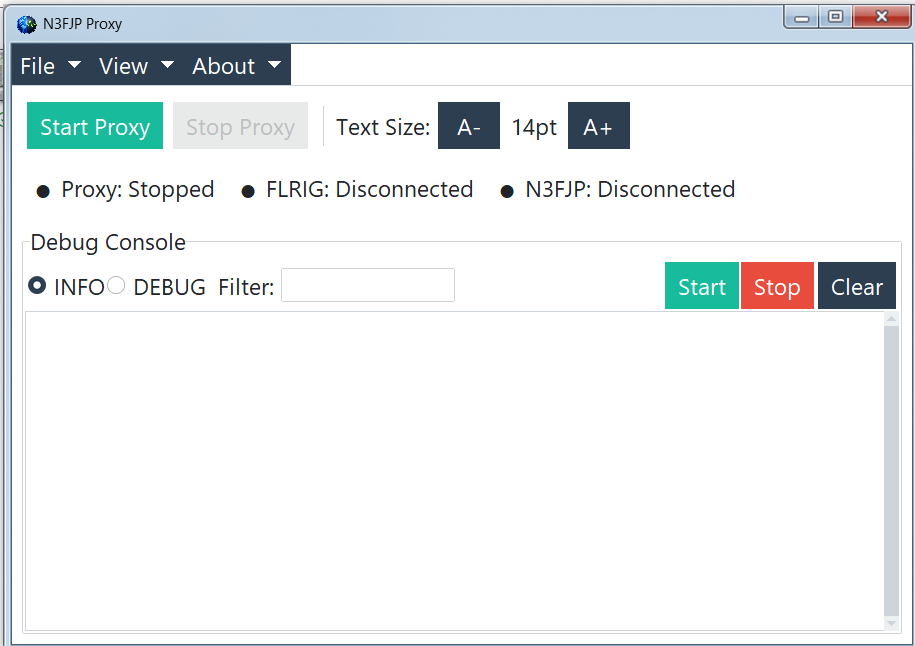
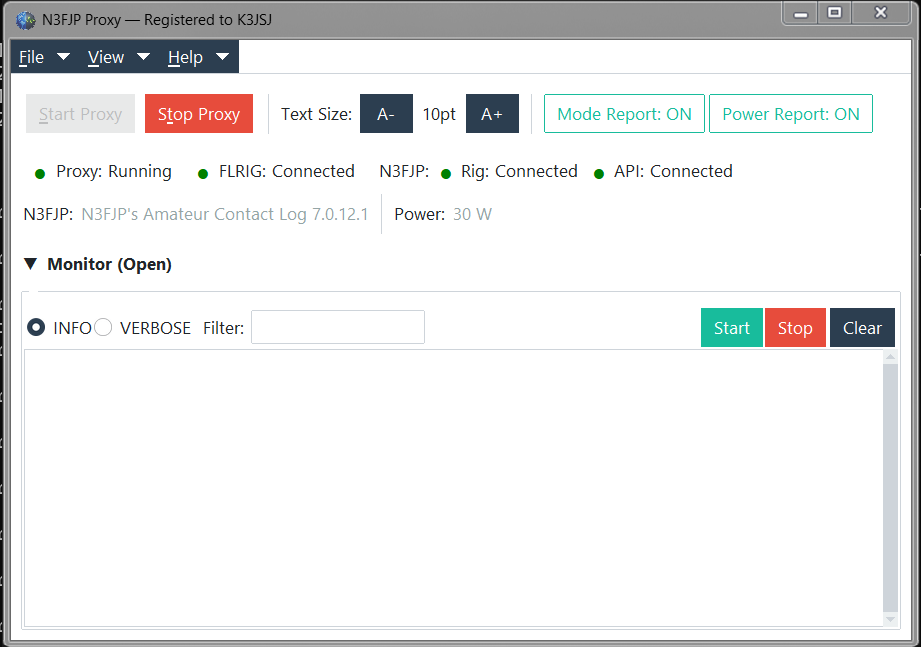
N3FJP Proxy: Updated website for new release. Updated screenshot of main window. Added screenshot of configuration window.

Changed region(s): [[0.0, 0.0, 1.0, 1.0], [0.306, 0.4644, 0.4896, 0.4954]]

diff --git a/_pages/n3fjp-proxy-landing.md b/_pages/n3fjp-proxy-landing.md
@@ -10,45 +10,18 @@ N3FJP Proxy is a free Windows application that bridges **N3FJP Amateur Contact L
 
 ## Download
 
- <a href="https://downloads.k3jsj.net/n3fjp-proxy/n3fjp-proxy-1.0.0-beta.zip">n3fjp-proxy-beta-1.0.0.zip</a> (MD5SUM: <code>9fc43f150cc20e81843f350d92bf97262f006b6beb268e65b9df3c025a078f33</code>
+Release Date: July 14, 2026
 
- <a href="https://downloads.k3jsj.net/n3fjp-proxy/n3fjp-proxy-1.0.0-beta.zip.sig">n3fjp-proxy-beta-1.0.0.zip.sig</a>  (Digital Signature)
+ <a href="https://downloads.k3jsj.net/n3fjp-proxy/n3fjp-proxy-1.0.1-64bit.zip">n3fjp-proxy-1.0.1-64bit.zip</a> (SHA256SUM: <code>3e58dc56d1b7da5f66c170432448094d007fd85e9864cbe33261d860471dfe67</code>)
 
----
-## Video Series
+ <a href="https://downloads.k3jsj.net/n3fjp-proxy/n3fjp-proxy-1.0.1-64bit.zip.sig">n3fjp-proxy-1.0.1-64bit.zip.sig</a>  (Digital Signature)
 
-<div style="position: relative; padding-bottom: 56.25%; height: 0; overflow: hidden; max-width: 100%;">
-  <iframe
-    src="https://www.youtube.com/embed/DwtwsuPWn-w"
-    title="Introducing N3FJP Proxy Part 1"
-    frameborder="0"
-    allow="accelerometer; autoplay; clipboard-write; encrypted-media; gyroscope; picture-in-picture; web-share"
-    allowfullscreen
-    style="position: absolute; top: 0; left: 0; width: 100%; height: 100%;">
-  </iframe>
-</div>
-
-Check out “Introducing N3FJP Proxy Part 1” for an overview of integrating analog and digital operations. With N3FJP Proxy the frequency of your radio will be provided to N3FJP while you are operating digital applications.
-
-<div style="position: relative; padding-bottom: 56.25%; height: 0; overflow: hidden; max-width: 100%;">
-  <iframe
-    src="https://www.youtube.com/embed/BT4eOwWgOos"
-    title="Introducing N3FJP Proxy Part 2"
-    frameborder="0"
-    allow="accelerometer; autoplay; clipboard-write; encrypted-media; gyroscope; picture-in-picture; web-share"
-    allowfullscreen
-    style="position: absolute; top: 0; left: 0; width: 100%; height: 100%;">
-  </iframe>
-</div>
-
-Check out “Introducing N3FJP Proxy Part 2” for a live demo of the software setup and how the N3FJP Proxy provides information from your radio to N3FJP while operating digital applicaitons.
+It is recommended to verify the sha256sum of the ZIP file. The author has also signed the zip file using his PGP key (K3JSJ@ARRLNET).
 
 ---
-## Support request
 
-If you have a question or have a feature or bug report please use the following Google form
-
-<a href="https://docs.google.com/forms/d/e/1FAIpQLSdbSc06EE1WUObzECayfRRte3q-nRSqi2uRIJt0SdEFJI0T0g/viewform?usp=publish-editor" target="_blank">K3JSJ Software Support request form</a>
+## Installation
+Download the ZIP file and unzip into a folder in your Windows profile (e.g., Desktop\, or Downloads\). The application does not require admintrator rights and it should be executed using normal user permissions.
 
 
 ---
@@ -57,7 +30,16 @@ If you have a question or have a feature or bug report please use the following 
 
 ![N3FJP Proxy Main Window]({{ site.baseurl }}/images/2026/n3fjp-proxy/setup_proxy_02.png)
 
+Figure 1 - Main screen of N3FJP Proxy
+
+![N3FJP Proxy Config Window]({{ site.baseurl }}/images/2026/n3fjp-proxy/setup_proxy_01.png)
+
+Figure 2 - Configuration menu (File => Config)
+
+
 ---
+
+## Software Overview
 
 N3FJP Proxy sits between N3FJP Amateur Contact Log and FLRIG, translating the N3FJP API protocol into FLRIG XML-RPC commands. When you change frequency or mode in FLRIG, or other applications using FLRIG, N3FJP updates automatically — and vice versa.
 
@@ -71,6 +53,16 @@ N3FJP Proxy sits between N3FJP Amateur Contact Log and FLRIG, translating the N3
 - Accessible font size controls (A+ / A−) for comfortable reading
 - Saves window position across monitors and sessions
 - Detailed log viewer with filter and export
+
+** Updates 1.0.1 **
+- TX Power now updates live in N3FJP's QSO entry screen (previously never worked - required a new connection into N3FJP's own API)
+- Detect Settings - one-click auto-detect of IP/Port and installed apps, with guided setup
+- App Launcher - auto-start/stop FLRIG, N3FJP, WSJT-X, Fldigi, VarAC, and FreeDV alongside the proxy
+- Frequency Config editor with ARRL band-plan auto-populate
+- Background/manual software update checker (this notice!)
+- Separate status indicators for N3FJP Rig vs. N3FJP API connections
+- Live power/frequency/mode display, N3FJP program name and version shown
+- Accessibility improvements: keyboard navigation, contrast, colorblind-friendly status indicators, adjustable text size
 
 ---
 
@@ -87,21 +79,7 @@ N3FJP Proxy sits between N3FJP Amateur Contact Log and FLRIG, translating the N3
 
 ## Quick Setup
 
-N3FJP Proxy includes a built-in setup guide (View → Setup Instructions). The short version:
-
-1. **FLRIG** — Enable the XML-RPC server at port **12345**
-   *(Config → Setup → Server)*
-
-2. **N3FJP** — Set the rig interface to **N3FJP API** at port **11000**
-   *(Settings → Rig Interface)*
-
-3. **N3FJP Proxy** — Set IP address of FLRIG (127.0.0.1 or remote IP), Set FLRIG port to **12345**, Proxy port to **11000**
-   *(File → Config)*
-
-4. Click **Start Proxy**, then click **Test** in N3FJP — your radio's
-   frequency and mode should appear.
-
-See note below about Firewall & Antivirus
+N3FJP Proxy includes a built-in setup guide (View → Setup Instructions).
 
 ---
 
@@ -110,9 +88,12 @@ See note below about Firewall & Antivirus
 The download includes:
 
 - `n3fjp-proxy.exe` — Application executable
-- `n3fjp-proxy.exe.sig` - Digital signature of the n3fjp-proxy.exe
+- `n3fjp-proxy.exe.sig` — Digital signature of application
 - `README.txt` — Version, setup summary, and file integrity information
 - `DISCLAIMER.TXT` — Full terms of use
+- `sha256sum.txt`  — SHA256SUM of n3fjp-proxy.exe
+- `docs\user-guide.html` - Full user guide
+- `docs\images` - Folder containing images from user guide
 
 ---
 
@@ -138,6 +119,22 @@ N3FJP Proxy includes the following open source library:
 
 In accordance with the LGPLv3, you may obtain the pystray source code at the link above and recompile or relink it with this application if desired.
 
+It also includes the following permissively-licensed open source libraries (no source disclosure required):
+
+| Library | Purpose | License |
+|---|---|---|
+| [ttkbootstrap](https://github.com/israel-dryer/ttkbootstrap) | Themed widgets for tkinter | MIT AND (Apache-2.0 OR BSD-2-Clause) |
+| [Pillow](https://python-pillow.github.io) | Image handling | MIT-CMU |
+| [psutil](https://github.com/giampaolo/psutil) | Process and system utilities | BSD-3-Clause |
+| [PGPy](https://github.com/SecurityInnovation/PGPy) | Registration-file signature verification | BSD-3-Clause |
+| [cryptography](https://github.com/pyca/cryptography) | Cryptographic primitives (used by PGPy) | Apache-2.0 OR BSD-3-Clause |
+| [pyasn1](https://github.com/pyasn1/pyasn1) | ASN.1 encoding/decoding (used by PGPy) | BSD-2-Clause |
+| [cffi](https://github.com/python-cffi/cffi) | Foreign function interface (used by cryptography) | MIT |
+| [pycparser](https://github.com/eliben/pycparser) | C parser in Python (used by cffi) | BSD-3-Clause |
+| [pyperclip](https://github.com/asweigart/pyperclip) | Clipboard access | BSD |
+| [truststore](https://github.com/sethmlarson/truststore) | Native OS certificate trust store verification | MIT |
+| [six](https://github.com/benjaminp/six) | Python 2/3 compatibility shim (used by pystray) | MIT |
+
 ---
 
 ## Disclaimer
@@ -147,5 +144,10 @@ with or endorsed by Scott Davis (N3FJP) or Dave Freese (W1HKJ / FLRIG).
 See `DISCLAIMER.TXT` for full terms.
 
 ---
+
 ## Contact me
 Jason Johnson &lt;[[email redacted]](mailto:[email redacted])&gt;
+
+---
+
+*Copyright 2026 Jason Johnson (K3JSJ) — All rights reserved*